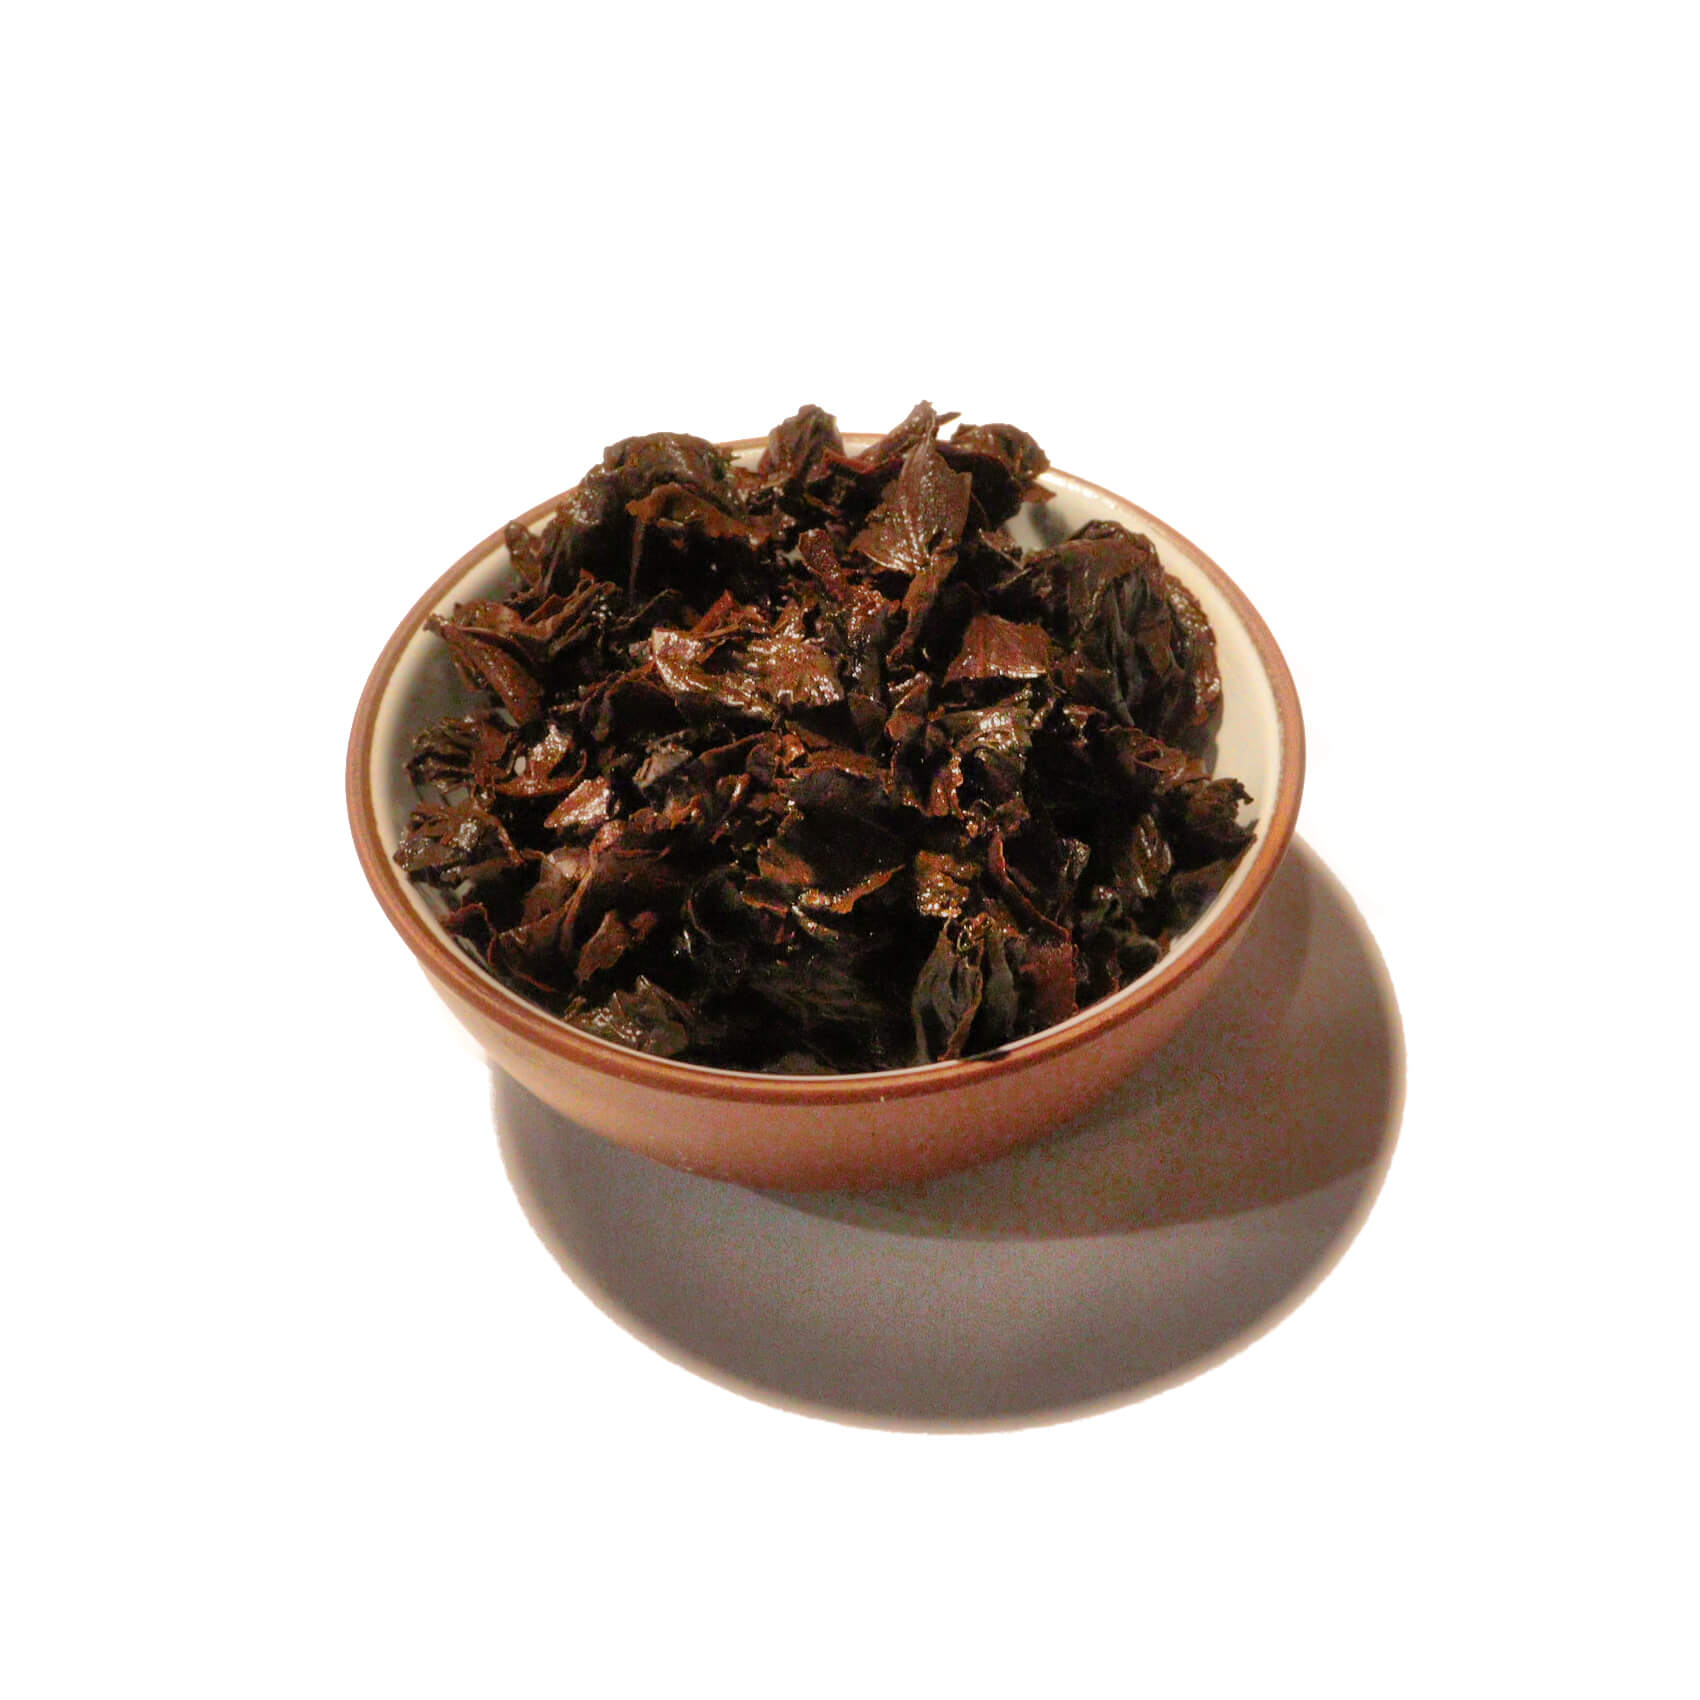
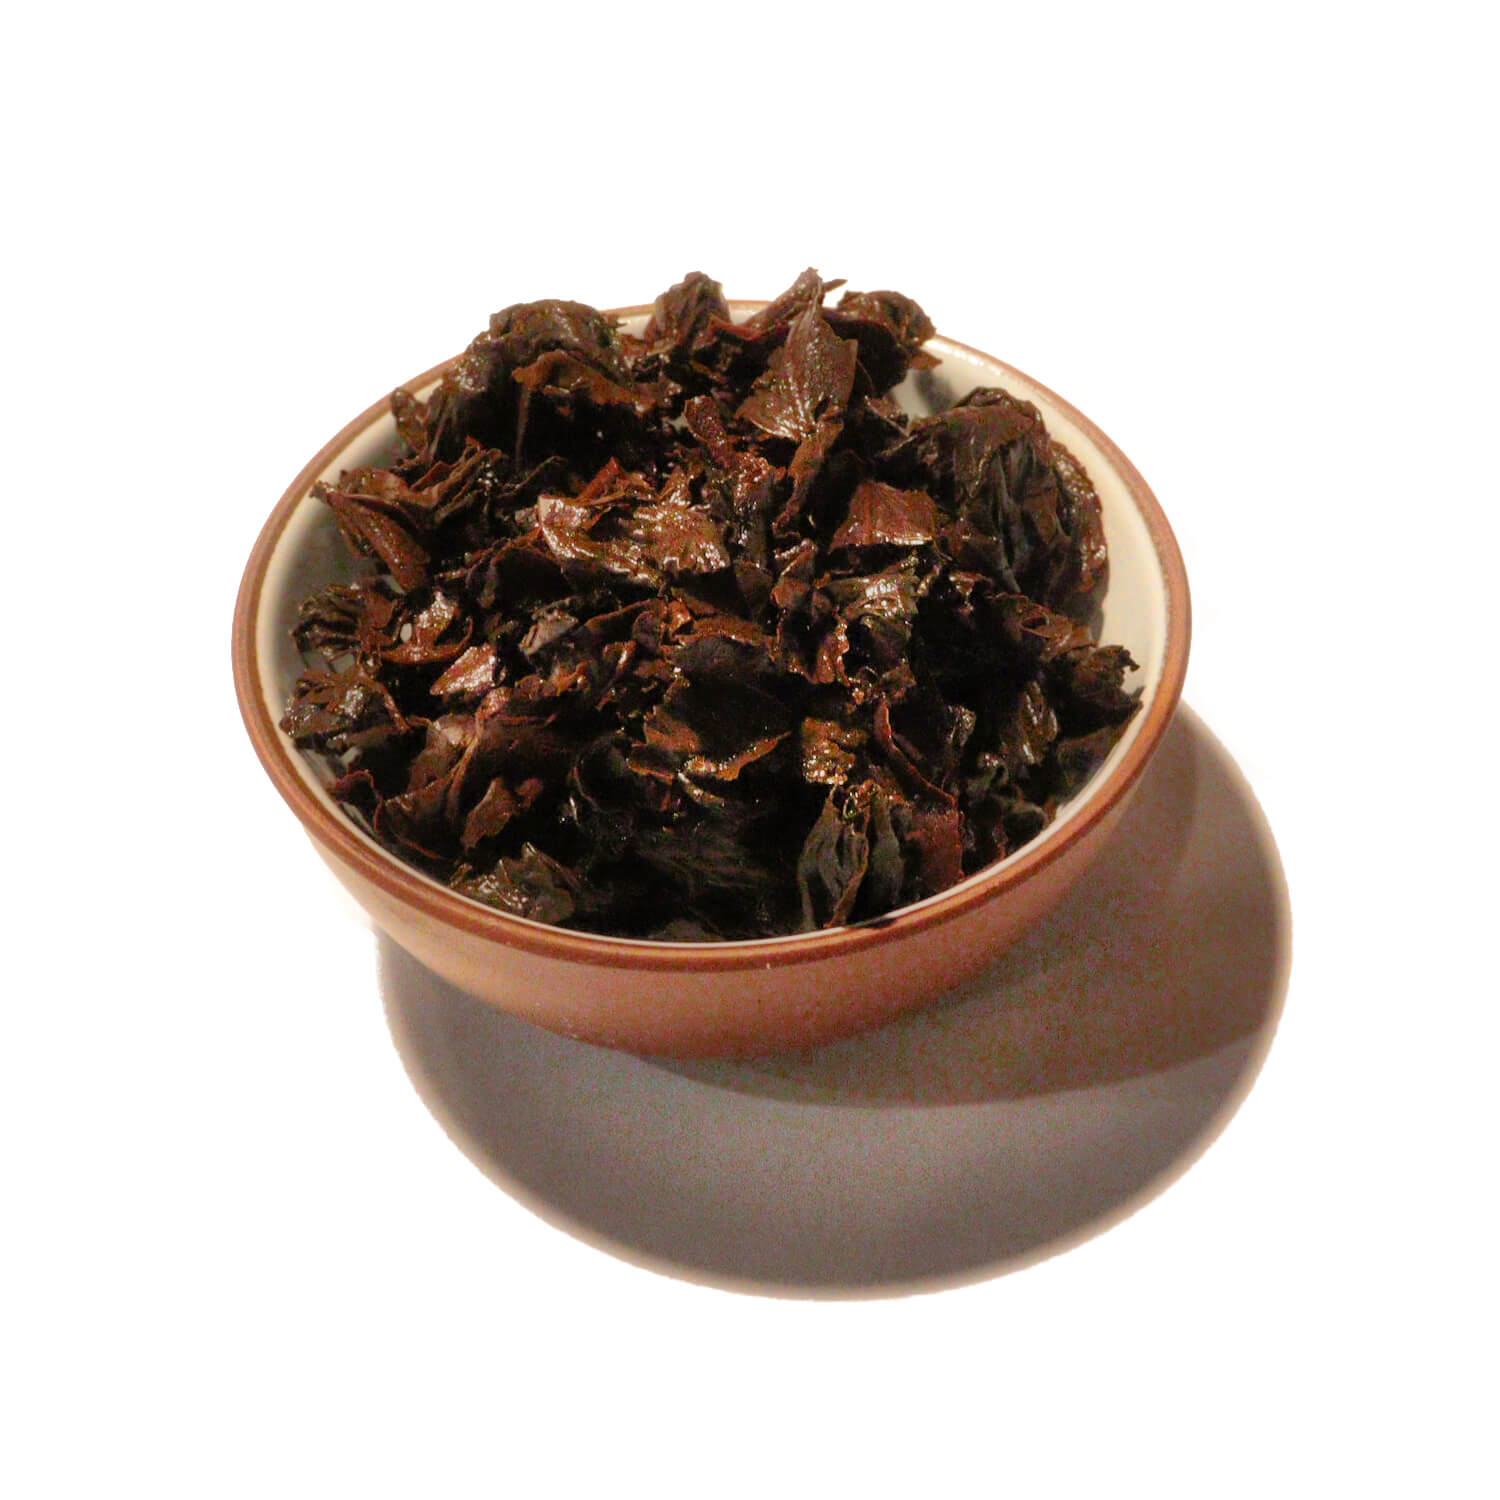
upload GABA oolong cake photos

Changed region(s): [[0.1533, 0.184, 0.8893, 0.8893]]

diff --git a/_posts/tea/2020-07-28-review-gaba-oolong-cake-cz.md b/_posts/tea/2020-07-28-review-gaba-oolong-cake-cz.md
@@ -59,4 +59,4 @@ rating: "8"
 RedditLink: ""
 ---
 
-Až do teď jsem na focení čaje k recenzím používal foťák zabudovaný v mém mobilním telefonu. Tento čaj mě ale donutil sáhnout už po zrcadlovce, protože kontrast tmavých lístků na bílém pozadí byl už pro můj ubohý iPhone příliš. Fotky měly rozbitou expozici tak moc, že byly pro recenzi nepoužitelné. <a href="/tea/gaba-oolong-cake/cake-raw.jpg">Přesvědčte se sami.</a> Zrcadlovka se mi osvědčila, tak jsem se rozhodl s ní fotit i budoucí recenze. Tato komplikace je i důvodem, proč na fotografii níže není disk celý.
+Až do teď jsem na focení čaje k recenzím používal foťák zabudovaný v mém mobilním telefonu. Tento čaj mě ale donutil sáhnout už po zrcadlovce, protože kontrast tmavých lístků na bílém pozadí byl už pro můj ubohý iPhone příliš. Fotky měly rozbitou expozici tak moc, že byly pro recenzi nepoužitelné. <a href="/tea/gaba-oolong-cake/cake-unused.jpg">Přesvědčte se sami.</a> Zrcadlovka se mi osvědčila, tak jsem se rozhodl s ní fotit i budoucí recenze. Tato komplikace je i důvodem, proč na fotografii níže není disk celý.
